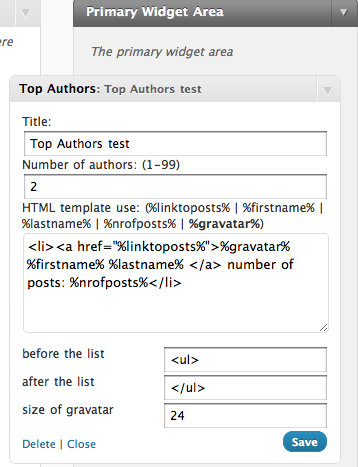
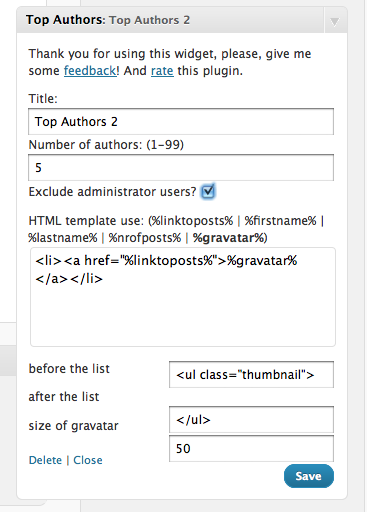
New feature: exclude admin users
git-svn-id: https://plugins.svn.wordpress.org/top-authors/trunk@314059 b8457f37-d9ea-0310-8a92-e5e31aec5664

diff --git a/top_authors.php b/top_authors.php
@@ -3,7 +3,7 @@
  * Plugin Name: Top Authors
  * Plugin URI: http://developr.nl/work/top-authors
  * Description: A highly customizable widget that sums the top authors(most contributing) on your blog
- * Version: 0.4.2
+ * Version: 0.5
  * Author: developR | Seb van Dijk
  * Author URI: http://www.developr.nl
  *
@@ -27,9 +27,6 @@ function top_authors() {
  * This class handles everything that needs to be handled with the widget:
  * the settings, form, display, and update.  Nice!
  *
- * For Top Authors I used a standard framework for this :) thanx
- *
- * @since 0.1
  */
 class Top_Authors extends WP_Widget {
 
@@ -50,6 +47,8 @@ class Top_Authors extends WP_Widget {
 	/**
 	 * This is the part where the heart of this widget is!
 	 * here we get al the authors and count their posts. 
+	 *
+	 * The frontend function
 	 */
 	function widget( $args, $instance ) {
 		extract( $args );
@@ -61,6 +60,7 @@ class Top_Authors extends WP_Widget {
 		$before_the_list =		htmlspecialchars_decode($instance['before']);
 		$after_the_list = 		htmlspecialchars_decode($instance ['after']);
 		$gravatar_size =		$instance['gravatar_size'];
+		$exclude_admin = 		$instance['exclude_admin'];
 		
 		/* Before widget (defined by themes). */
 		echo $before_widget;
@@ -73,6 +73,7 @@ class Top_Authors extends WP_Widget {
 		
 		$blogusers = get_users_of_blog(); // doh
 			
+		
 		// this part can be a heavyload process if you have a lot of authors
 		// use a plugin like W3 cash to solve this. 
 		
@@ -88,7 +89,7 @@ class Top_Authors extends WP_Widget {
 		  
 		 
 		  
-		  // user defined html elemnt before the list
+		  // user defined html element before the list
 		  if($user_list){echo $before_the_list;}
 		
 		  if(count($user_list)<$number_of_authors)
@@ -98,39 +99,56 @@ class Top_Authors extends WP_Widget {
 
 		 foreach($posts as  $userid => $post) 
 		 {
-		 // for ( $counter = 0; $counter <= $number_of_authors-1	; $counter += 1) {
+			$counter++;
+			if($counter>$number_of_authors)
+			{
+				break;
+			}
 
-				// quick and dirty bugfix.
-				$counter++;
-				if($counter>$number_of_authors)
-				{
-					break;
-				}
+			// create a WP user object
+			$user = new WP_User( $userid );
 
-			  $user = get_userdata($userid);		  
+			
+			// detect if user is administrator
+			// Introduced in version 0.5 of top-authors. Hope this is fool-proof.
+			if($user->wp_capabilities['administrator'] || $user->blog_capabilities['administrator'])
+			{
+				$user_is_admin = true;
+			}
+			else
+			{
+				$user_is_admin = false;
+			}
+		
+			$author_posts_url = get_author_posts_url($userid);
+			
+			if(!$user->user_firstname && !$user->user_lastname)
+			{
+				$user->user_firstname = $user->user_login;
+			}    
+			//replace anchors in usertemplate		
+			$output = str_replace("%linktoposts%",get_bloginfo("wpurl") .'/author/'.str_replace(" ","-",$user->user_login),$template);
+			$output = str_replace("%firstname%",$user->user_firstname,$output);
+			$output = str_replace("%lastname%",$user->user_lastname,$output);
+			$output = str_replace("%nrofposts%",$post,$output);
+			
+			$gravatar_detect = strpos($output,"%gravatar%");
+			
+			if($gravatar_detect !== false){
+				$gravatar = get_avatar($user->ID, $gravatar_size);
+				 $output = str_replace("%gravatar%",$gravatar,$output);
+			}
 			  
-
-			  $author_posts_url = get_author_posts_url($userid);
-			 
-			  if(!$user->user_firstname && !$user->user_lastname)
+			  if($user_is_admin && $exclude_admin == "on")
 			  {
-			  	$user->user_firstname = $user->user_login;
-			  }    
-			  //replace anchors in usertemplate		
-			  $output = str_replace("%linktoposts%",get_bloginfo("wpurl") .'/author/'.str_replace(" ","-",$user->user_login),$template);
-			  $output = str_replace("%firstname%",$user->user_firstname,$output);
-			  $output = str_replace("%lastname%",$user->user_lastname,$output);
-			  $output = str_replace("%nrofposts%",$post,$output);
-			  
-			  $gravatar_detect = strpos($output,"%gravatar%");
-			  
-			  if($gravatar_detect !== false){
-			 	$gravatar = get_avatar($user->ID, $gravatar_size);
-			 	 $output = str_replace("%gravatar%",$gravatar,$output);
+			  	// aiii we skipped an admin user but we still want to get the total number of users right!
+			  	$counter--;
 			  }
-			  
-			  // newline in html, al  for the looks!
-			  echo $output ."\n";
+			  else
+			  {
+				  // newline in html, al  for the looks!
+				  echo $output ."\n";
+			  }
 			}
 	
 		  // user defined html after the list
@@ -146,6 +164,8 @@ class Top_Authors extends WP_Widget {
 
 	/**
 	 * Update the widget settings.
+	 *
+	 * Backend widget settings
 	 */
 	function update( $new_instance, $old_instance ) {
 		$instance = $old_instance;
@@ -158,6 +178,8 @@ class Top_Authors extends WP_Widget {
 		$instance['before'] = 			htmlspecialchars($new_instance['before']);
 		$instance['after'] = 			htmlspecialchars($new_instance['after']);
 		
+		$instance['exclude_admin'] =	$new_instance['exclude_admin'];
+				
 		// check if datainput isnummeric
 		if(is_numeric($new_instance['gravatar_size']))
 		{
@@ -184,14 +206,15 @@ class Top_Authors extends WP_Widget {
 			
 			}
 		}
+		
 
 		return $instance;
 	}
 
 	/**
 	 * Displays the widget settings controls on the widget panel.
-	 * Make use of the get_field_id() and get_field_name() function
-	 * when creating your form elements. This handles the confusing stuff.
+	 *
+	 * Backend widget options form
 	 */
 	function form( $instance ) {
 		$defaults = array( 
@@ -200,11 +223,12 @@ class Top_Authors extends WP_Widget {
 							'template' => __('<li><a href="%linktoposts%">%gravatar% %firstname% %lastname% </a> number of posts: %nrofposts%</li>', 'top_authors'),
 							'before' => __('<ul>', 'top_authors'),
 							'after' => __('</ul>', 'top_authors'),
-							'gravatar_size' => __(24)
+							'gravatar_size' => __(24),
+							
 						);
 						
 		$instance = wp_parse_args( (array) $instance, $defaults ); ?>
-		<p>Thank you for using this widget, please, give me some <a href="mailto:feedback@developr.nl">feedback</a>! </p>	
+		<p>Thank you for using this widget, please, give me some <a href="mailto:feedback@developr.nl">feedback</a>! And <a href="http://wordpress.org/extend/plugins/top-authors/">rate</a> this plugin.</p>	
 		<p>
 			<label for="<?php echo $this->get_field_id( 'title' ); ?>"><?php _e('Title:', 'hybrid'); ?></label>
 			<input id="<?php echo $this->get_field_id( 'title' ); ?>" name="<?php echo $this->get_field_name( 'title' ); ?>" value="<?php echo $instance['title']; ?>" style="width:96%;float:right;" />
@@ -212,6 +236,10 @@ class Top_Authors extends WP_Widget {
 		<p>
 			<label for="<?php echo $this->get_field_id( 'number' ); ?>"><?php _e('Number of authors: (1-99)', 'top_authors'); ?></label>
 			<input id="<?php echo $this->get_field_id( 'number' ); ?>" name="<?php echo $this->get_field_name( 'number' ); ?>" value="<?php echo $instance['number']; ?>" style="width:96%;float:right;" />
+		</p>
+		<p>
+			<label for="<?php echo $this->get_field_id( 'exclude_admin' ); ?>"><?php _e('Exclude administrator users?', 'top_authors'); ?></label>
+			<input type="checkbox" id="<?php echo $this->get_field_id( 'exclude_admin' ); ?>" name="<?php echo $this->get_field_name( 'exclude_admin' ); ?>" <?php if($instance['exclude_admin'] == 'on'){echo " checked=checked";} ?> />
 		</p>
 		<p>
 			<label for="<?php echo $this->get_field_id( 'template' ); ?>"><?php _e('HTML template use: (%linktoposts% | %firstname% | %lastname% | %nrofposts% | <strong>%gravatar%</strong>)', 'top_authors'); ?></label>
